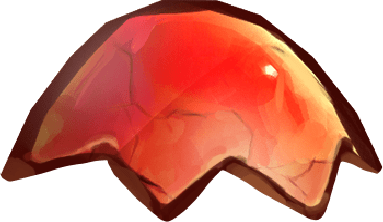
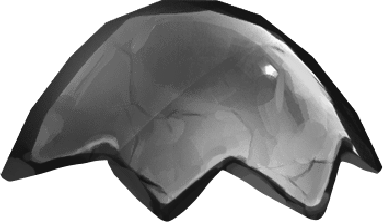
egg coloring implemented (besides tier3)

diff --git a/src/js/game/FlashAnimationVisual.js b/src/js/game/FlashAnimationVisual.js
@@ -1,16 +1,23 @@
 import {IContainer, IVisual, ObjectType} from "../behaviours/Base";
 import {RENDER_LAYER} from "../Renderer";
 
-export const FlashAnimationVisual = (descriptor, baseImagePath, stage, type, slot, crutchStates = []) => {
+export const FlashAnimationVisual = (descriptor, baseImagePath, stage, type, slot, crutchStates = [], tier = NaN) => {
 
-    crutchStates = crutchStates.map(t => {
-        return IVisual(t).setAnchor(0.5, 0.5)
-    }).reverse()
+
 
     const frameRate = type.indexOf('egg') !== 1 ? 2 : 3
     let scale = 1
+    let filter = null
     if (type.indexOf('egg') !== -1) {
         scale = 0.51
+        if (type === ObjectType.EGG) {
+            const gradients = window.resources.getJSON(`${baseImagePath}_gradients`)[`tier${tier}`]
+            filter = new PIXI.Filter(null, window.resources.getText('shader_gradient_map'))
+            Object.keys(gradients).forEach(gK => {
+                filter.uniforms[gK] = gradients[gK].map((g, i) => i < 3 ? g/255 : g)
+            })
+            // console.log(filter.uniforms)
+        }
     } else if (type === ObjectType.CHEST) {
         if (slot === 0) {
             scale = 0.35
@@ -22,9 +29,20 @@ export const FlashAnimationVisual = (descriptor, baseImagePath, stage, type, slo
         scale = 0.42
     }
 
+    crutchStates = crutchStates.map(t => {
+        const v = IVisual(t).setAnchor(0.5, 0.5)
+
+        return v
+    }).reverse()
+
     const animation = window.resources.getJSON(descriptor)
 
-    const self = IContainer(0, 0, RENDER_LAYER.GAME)
+    const root = IContainer(0, 0, RENDER_LAYER.GAME)
+    const filteredContainer = IContainer(0, 0)
+    root.visual.addChild(filteredContainer.visual)
+    if (filter) {
+        filteredContainer.visual.filters = [filter]
+    }
 
     const visuals = animation.map(layer => {
         if (layer.visual === 'number') {
@@ -49,17 +67,19 @@ export const FlashAnimationVisual = (descriptor, baseImagePath, stage, type, slo
             }
             return numberVisual
         } else {
-            return IVisual(`${baseImagePath}_${layer.visual}`).setAnchor(0, 0)
+            const v = IVisual(`${baseImagePath}_${layer.visual}`).setAnchor(0, 0)
+            // if (filter) v.visual.filters = [filter]
+            return v
         }
     })
     visuals.forEach(v => {
-        self.visual.addChild(v.visual)
+        filteredContainer.visual.addChild(v.visual)
     })
 
-    self.visual.hitArea = new PIXI.Rectangle(-self.visual.width/2, -self.visual.height/2, self.visual.width, self.visual.height)
+    root.visual.hitArea = new PIXI.Rectangle(-root.visual.width/2, -root.visual.height/2, root.visual.width, root.visual.height)
     // self.visual.pivot.x = self.visual.width/2
     // self.visual.pivot.y = self.visual.height/2
-    self.visual.scale.x = self.visual.scale.y = scale
+    root.visual.scale.x = root.visual.scale.y = scale
 
     let resolve = null
     let frame = 0
@@ -90,7 +110,7 @@ export const FlashAnimationVisual = (descriptor, baseImagePath, stage, type, slo
         })
     }
 
-    self.setCrutchState = state => {
+    root.setCrutchState = state => {
         const singleState = 1 / (crutchStates.length-1)
         const stateSlot = Math.floor(state / singleState)
         const visualIndexes = [stateSlot, stateSlot+1]
@@ -100,19 +120,19 @@ export const FlashAnimationVisual = (descriptor, baseImagePath, stage, type, slo
 
         visuals.forEach(v => v.visual.visible = false)
 
-        crutchStates.forEach(cs => self.visual.removeChild(cs.visual))
-        self.visual.addChild(crutchStates[stateSlot].visual)
+        crutchStates.forEach(cs => root.visual.removeChild(cs.visual))
+        filteredContainer.visual.addChild(crutchStates[stateSlot].visual)
         crutchStates[stateSlot].visual.alpha = 1
-        self.visual.addChild(crutchStates[stateSlot+1].visual)
+        filteredContainer.visual.addChild(crutchStates[stateSlot+1].visual)
         crutchStates[stateSlot+1].visual.alpha = lerp1
     }
 
-    self.play = () => {
-        crutchStates.forEach(cs => self.visual.removeChild(cs.visual))
+    root.play = () => {
+        crutchStates.forEach(cs => filteredContainer.visual.removeChild(cs.visual))
         return new Promise(_resolve => resolve = _resolve)
     }
 
-    self.update = () => {
+    root.update = () => {
         if (resolve === null) return
 
         appFrame += 1
@@ -131,5 +151,5 @@ export const FlashAnimationVisual = (descriptor, baseImagePath, stage, type, slo
 
     applyFrame(0)
 
-    return self
+    return root
 }

diff --git a/gulpfile.js b/gulpfile.js
@@ -135,7 +135,7 @@ gulp.task('step4-process-images', ['step3-webpack-lib'], () => {
                 if (/.*anim.*\.png/.test(relativePath)) return
                 if (/.*animation_source.*/.test(relativePath)) return
                 const loadPath = `assets/${relativePath}`
-                const alias = relativePath.replace(/\//g, '_').replace(/(\.jpg$|\.png$|\.json$)/, '')
+                const alias = relativePath.replace(/\//g, '_').replace(/(\.jpg$|\.png$|\.json$|\.frag$)/, '')
                 digest.push({alias: alias, path: loadPath})
             }
         })

diff --git a/src/js/game/SlotItem.js b/src/js/game/SlotItem.js
@@ -43,7 +43,7 @@ export class SlotItem {
         else if (type === ObjectType.EGG) {
             Object.assign(this, FlashAnimationVisual('animation_egg', 'egg_regular', stage, type, slot, [
                 'egg_regular_stage0', 'egg_regular_stage1', 'egg_regular_stage2'
-            ]))
+            ], drop.dragon.tier))
             Object.assign(this, IHealthBarOwner(this, {x: -200, y: -300}))
             // Object.assign(this, IVisualNumericRep(this, 'stage', -0.4, 0.3, 0xCCCC00, 0.25))
             this.setCrutchState(0.999)

diff --git a/src/js/index.js b/src/js/index.js
@@ -1,6 +1,6 @@
 import {debugManager} from "./debug/debugManager";
 import {Renderer} from "./Renderer";
-import {Resources} from "./Resrouces";
+import {Resources} from "./Resources";
 import {SCREEN_TYPE, ScreenMan} from "./screen/ScreenMan";
 import {GameModel} from "./model/GameModel";
 import {GameData} from "./model/GameData";

diff --git a/src/js/Renderer.js b/src/js/Renderer.js
@@ -67,6 +67,7 @@ export const Renderer = () => {
         // console.log(canvasW, canvasH, stage.scale, window.innerWidth, document.documentElement.clientWidth)
     }
     resizeCanvas()
+    console.log(renderer)
 
     // debug.on('visibility', _ => resizeCanvas())
 
